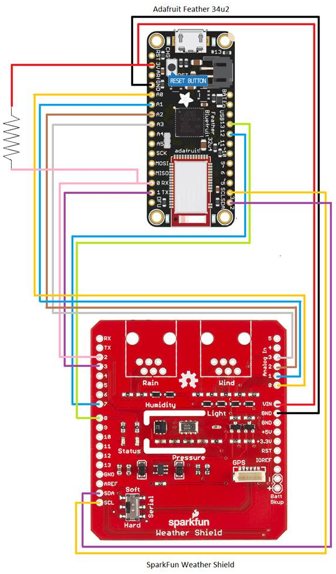
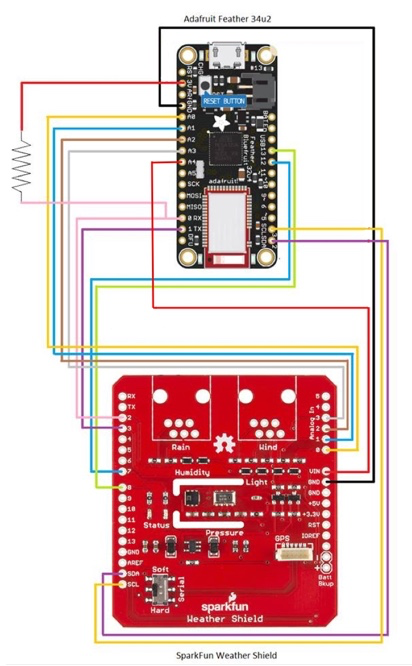
Update Agri MVP
Update on the description of the Agriculture MVP

diff --git a/content/documentation/mvps/agri.md b/content/documentation/mvps/agri.md
@@ -1,81 +1,74 @@
----
-date: 2016-09-13T09:00:00+00:00
-title: weather station prototype
----
 
-**Build a weather station using Waziup**
+### Discover here how to prototype a weather station using Waziup.
 
-The objective is to develop a low-cost and sustainable solution capable of reading real-time data typical of a weather station, using different sensors, and capable of communicating via LoRa.
-The following subsection are a Getting Strated tutorial.
-You can find detailed documentation [here] [WeatherStationGitHub]. 
+The objective is to develop a low-cost and sustainable solution capable of reading real-time data typical of a weather station, using different sensors, and capable of communicating via LoRa. The following subsection are a Getting Strated tutorial. You can find detailed documentation [here] [WeatherStationGitHub]. 
 
 
-Hardware
---------
+#### Hardware
 
 The following hardware it's needed to develop your own station:
 
-- [Adafruit Feather 32u4 RFM95 LoRa Radio] [Feather]
-- [Sparkfun Weather Shield] [Shield]
-- [Wind and Rain sensors Kit] [WindRain]
-- [Antenna 868 Mhz] [Antenna]
-- [SMA cable] [SMA] 
+•	[Adafruit Feather 32u4 RFM95 LoRa Radio] [Feather]
+•	[Adafruit RTC DS3231] [RTC]
+•	[Sparkfun Weather Shield] [Shield]
+•	[Wind and Rain sensors Kit] [WindRain]
+•	[Antenna 868 Mhz] [Antenna]
+•	[SMA cable] [SMA] 
 
-Libraries
----------
-
+#### Libraries
 You will need that following specific libraries. They are available [here] [Libraries].
 
-- WeatherStation
-- LowPower
-- FeatherLib
+•	SparkFunHTU21D
+•	SparkFunMPL3115A2
+•	RTClib
+•	LowPower
+•	Feather_Lib
 
 
-Build & Implementation
-----------------------
+#### Build & Implementation
 
 You need to follow the next steps to build and implement the Weather Station:
 
-1. **Connect the Wind and Rain sensors to the Weather Shield**;
+1) **Connect the Wind and Rain sensors to the Weather Shield**;
 The Weather Shield come with two unpopulated RJ11 connector spaces that you need to soldering. You need to connect the Wind and the Rain cables to the RJ11 connector.
 [![Sparkfun Weather Station](https://raw.githubusercontent.com/Waziup/waziup.io/master/content/documentation/mvps/agri_images/WeatherStationRJ11.jpg)](https://raw.githubusercontent.com/Waziup/waziup.io/master/content/documentation/mvps/agri_images/WeatherStationRJ11.jpg)
 
-2. **Connect the Adafruit Feather 32u4 with Sparkfun Weather Shield**;
+2) **Connect the Adafruit Feather 32u4 with Sparkfun Weather Shield**;
 [![Adafruit Feather 32u4 with Sparkfun Weather](https://raw.githubusercontent.com/Waziup/waziup.io/master/content/documentation/mvps/agri_images/pin_connection.png)](https://raw.githubusercontent.com/Waziup/waziup.io/master/content/documentation/mvps/agri_images/pin_connection.png)
 [![Adafruit Feather 32u4 with Sparkfun connection Scheme](https://raw.githubusercontent.com/Waziup/waziup.io/master/content/documentation/mvps/agri_images/pin_connection2.png)](https://raw.githubusercontent.com/Waziup/waziup.io/master/content/documentation/mvps/agri_images/pin_connection2.png)
 
 [![Overall Connection Scheme](https://raw.githubusercontent.com/Waziup/waziup.io/master/content/documentation/mvps/agri_images/all_connection.png)](https://raw.githubusercontent.com/Waziup/waziup.io/master/content/documentation/mvps/agri_images/all_connection.png)
 
-3. **Connect the Antenna 868 MHz to Feather**;
+3) **Connect the Antenna 868 MHz to Feather**;
 [![Antenna 868 MHz to Feather](https://raw.githubusercontent.com/Waziup/waziup.io/master/content/documentation/mvps/agri_images/antenna2feather.png)](https://raw.githubusercontent.com/Waziup/waziup.io/master/content/documentation/mvps/agri_images/antenna2feather.png)
 
-4. **Weather Station built with components**;
+4) **Weather Station built with components**;
 [![Weather Station built with components](https://raw.githubusercontent.com/Waziup/waziup.io/master/content/documentation/mvps/agri_images/implemented.png)](https://raw.githubusercontent.com/Waziup/waziup.io/master/content/documentation/mvps/agri_images/implemented.png)
 
 
-5. **Download the IDE and specific software**;
+5) **Download the IDE and specific software**;
 Don't forget to include the specific libraries. To did this use the Library Manager of your IDE.
 
-6. **Compile the software**;
-To this step you need to compile the "Feather_LoRa_WeatherStation.ino" or the "Feather_LoRa_WeatherStation_LowPower.ino" file. This is a "ready-to-run" file that contains the latest "firmware" to sample the sensors and output data with LoRa communication. Will give you all the sensor data: Temperature, Humidity, Luminosity, Pressor, Supply, Wind Direction, Wind speed and the Amount of Rain. You can see the info in your IDE Serial Monitor and you can also change the file has you want.
+6) **Compile the software**;
+To this step you need to compile the "WAZIUP_Weather_Station_v1.ino" file. This is a "ready-to-run" file that contains the latest "firmware" to sample the sensors and output data with LoRa communication. Will give you all the sensor data: Temperature, Humidity, Luminosity, Pressor, Supply, Wind Direction, Wind speed and the Amount of Rain. You can see the info in your IDE Serial Monitor and you can also change the file has you want.
 
-System Running
---------------
+#### System Running
 
 The following steps are about how the system works:
 
-1. Power-on the Feather. The script starts automatically when feather is powered on;
-2. At the start and during its automatic sensors calibration process the green led appears on (take about 5 seconds). 
-3. Wakes-up every 4 min, take all the measurements and send to Gateway.
-4. At the moment of reading values by the sensors and send a message to LoRa gateway the blue led turns on and then: If feather does not receive acknowledge then the blue led turns off and Feather sleeps. If feather receive acknowledge from master gateway then the blue led switch to green for 2 seconds, and feathers start sleeping.
-5. When Feather sleeps all led’s are off.
-6. Feather wakes up after four minute (by default), get the measurements and send back to master gateway until sleeping again.
+1)	Power-on the Feather. The script starts automatically when feather is powered on;
+2)	At the start and during its automatic sensors calibration process the green led appears on (take about 5 seconds). 
+3)	Wakes-up every 15 min, take all the measurements and send to Gateway.
+4)	At the moment of reading values by the sensors and send a message to LoRa gateway the blue led turns on and then: If feather does not receive acknowledge then the blue led turns off and Feather sleeps. If feather receive acknowledge from master gateway then the blue led switch to green for 2 seconds, and feathers start sleeping.
+5)	When Feather sleeps all led’s are off.
+6)	Feather wakes up after four minute (by default), get the measurements and send back to master gateway until sleeping again.
 
 
-   [Feather]: https://www.adafruit.com/product/3078
-   [Shield]: https://www.sparkfun.com/products/12081
-   [WindRain]: https://www.sparkfun.com/products/8942
-   [Antenna]: https://www.cooking-hacks.com/868mhz-antenna
-   [SMA]: https://www.cooking-hacks.com/interface-cable-rp-sma-to-u-fl
-   [Libraries]: https://github.com/unparallel-innovation/UI_Waziup_Weather_Station/tree/master/WAZIUP%20Weather%20Station%20Client/lib
-   [WeatherStationGitHub]: https://github.com/unparallel-innovation/UI_Waziup_Weather_Station
+   [Feather]: <https://www.adafruit.com/product/3078>
+   [Shield]: <https://www.sparkfun.com/products/12081>
+   [RTC]: <https://www.adafruit.com/product/3013>  
+   [WindRain]: <https://www.sparkfun.com/products/8942>
+   [Antenna]: <https://www.cooking-hacks.com/868mhz-antenna>
+   [SMA]: <https://www.cooking-hacks.com/interface-cable-rp-sma-to-u-fl>
+   [Libraries]: <https://github.com/unparallel-innovation/UI_Waziup_Weather_Station/tree/master/WAZIUP%20Weather%20Station%20Client/lib>
+   [WeatherStationGitHub]: <https://github.com/unparallel-innovation/UI_Waziup_Weather_Station>
